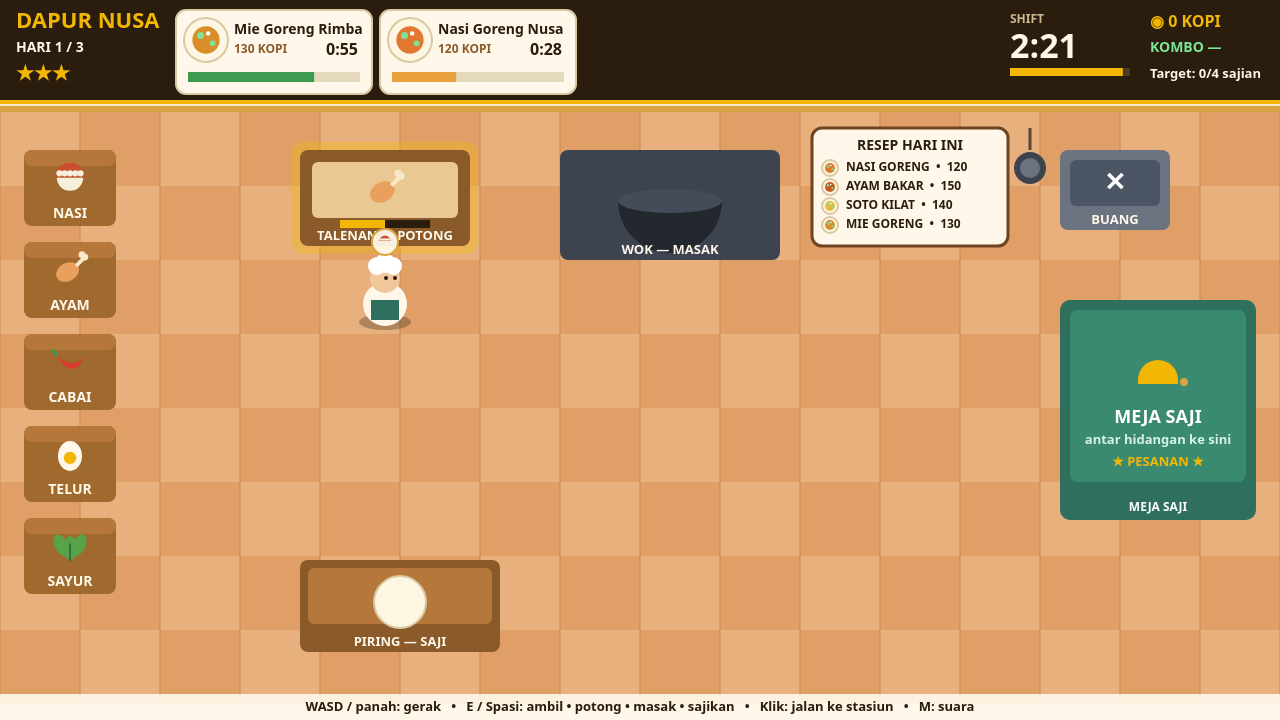
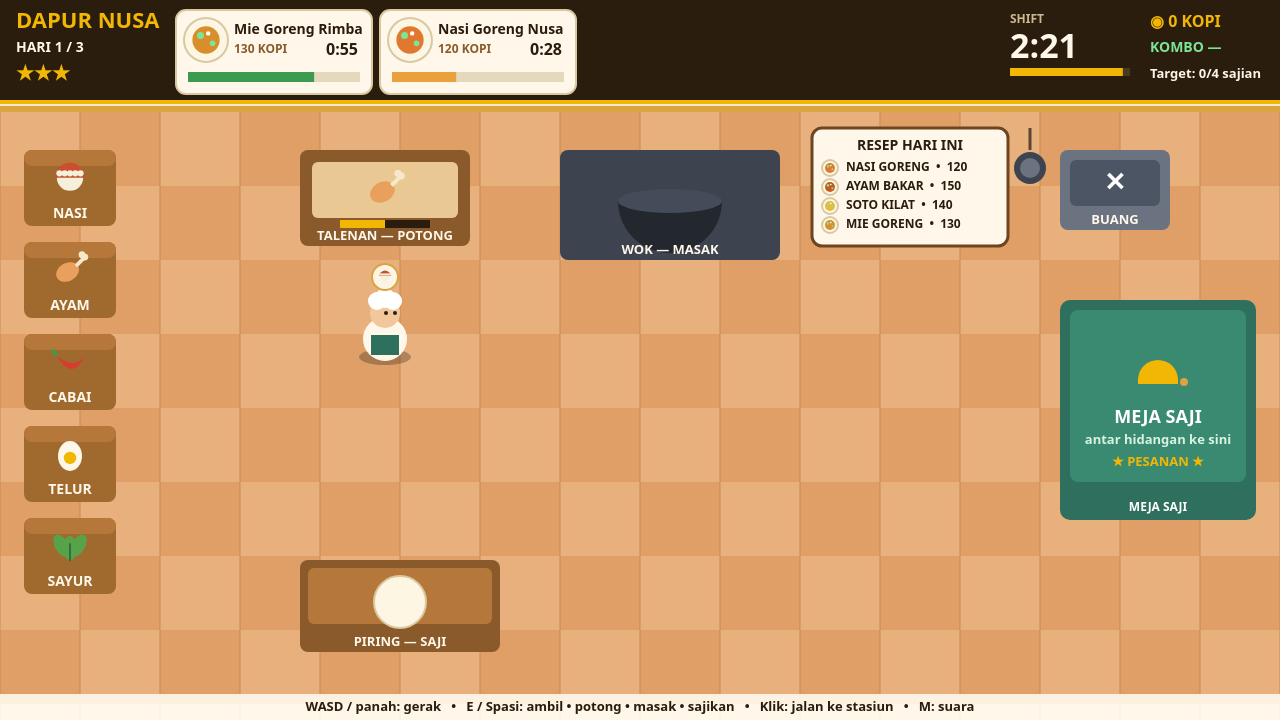
Verify fix: move play-scene cook down so carried-item bubble clears the TALENAN label
Independent verify pass found the staged play screenshot's carried-rice
bubble overlapping the 'TALENAN - POTONG' station label (player y 300 put
the bubble at y ~242, on the label line). Move the staged cook to y 335;
label now fully legible, cook still clearly chopping at the board.

Changed region(s): [[0.2188, 0.1833, 0.375, 0.5194]]

diff --git a/game/src/main.js b/game/src/main.js
@@ -61,7 +61,7 @@ function stagePlay() {
   kitchen.chop.item = 'chicken';
   kitchen.chop.progress = 0.7;
   kitchen.carrying = ['rice'];
-  kitchen.player.x = 385; kitchen.player.y = 300; kitchen.player.face = 1;
+  kitchen.player.x = 385; kitchen.player.y = 335; kitchen.player.face = 1;
 }
 
 function stageServe() {
